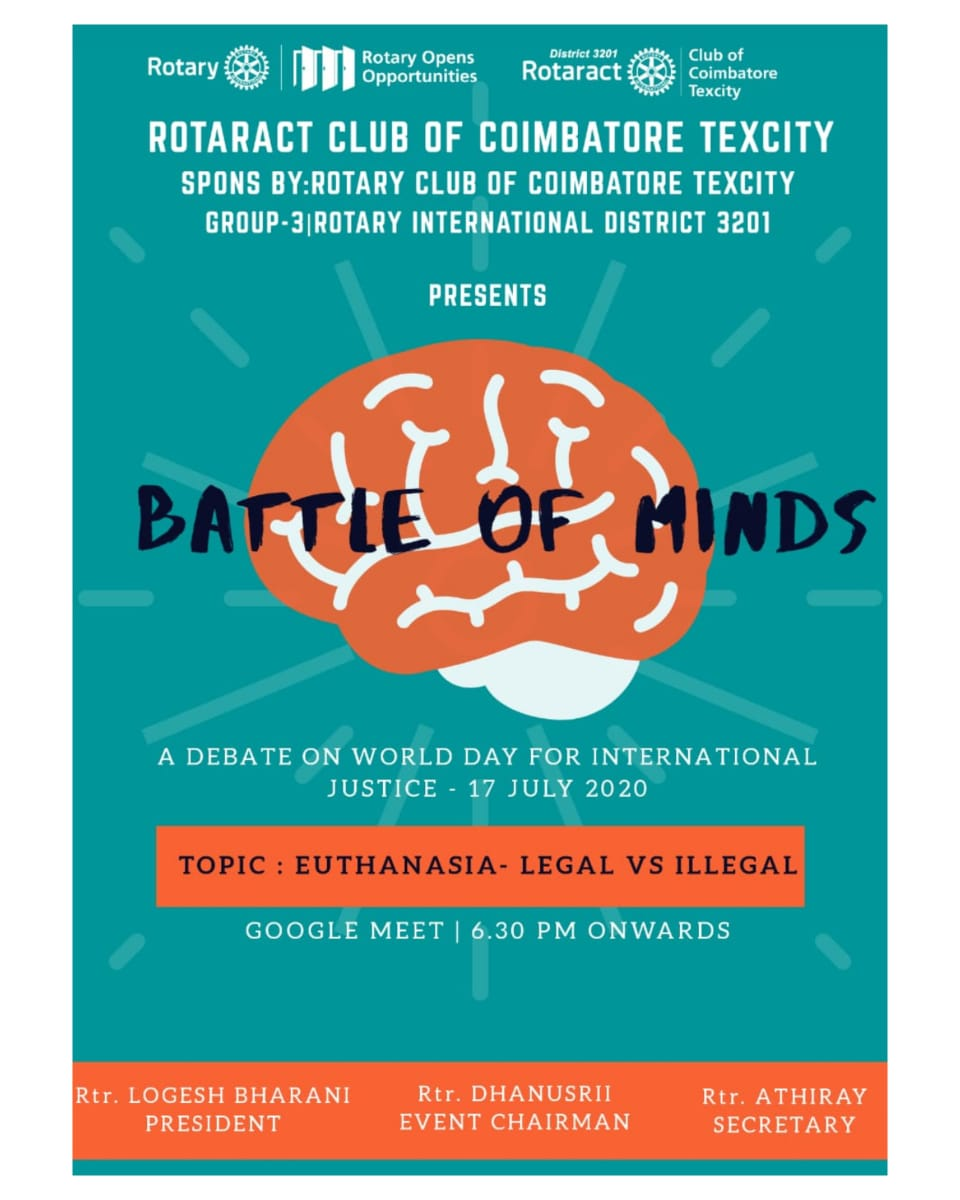
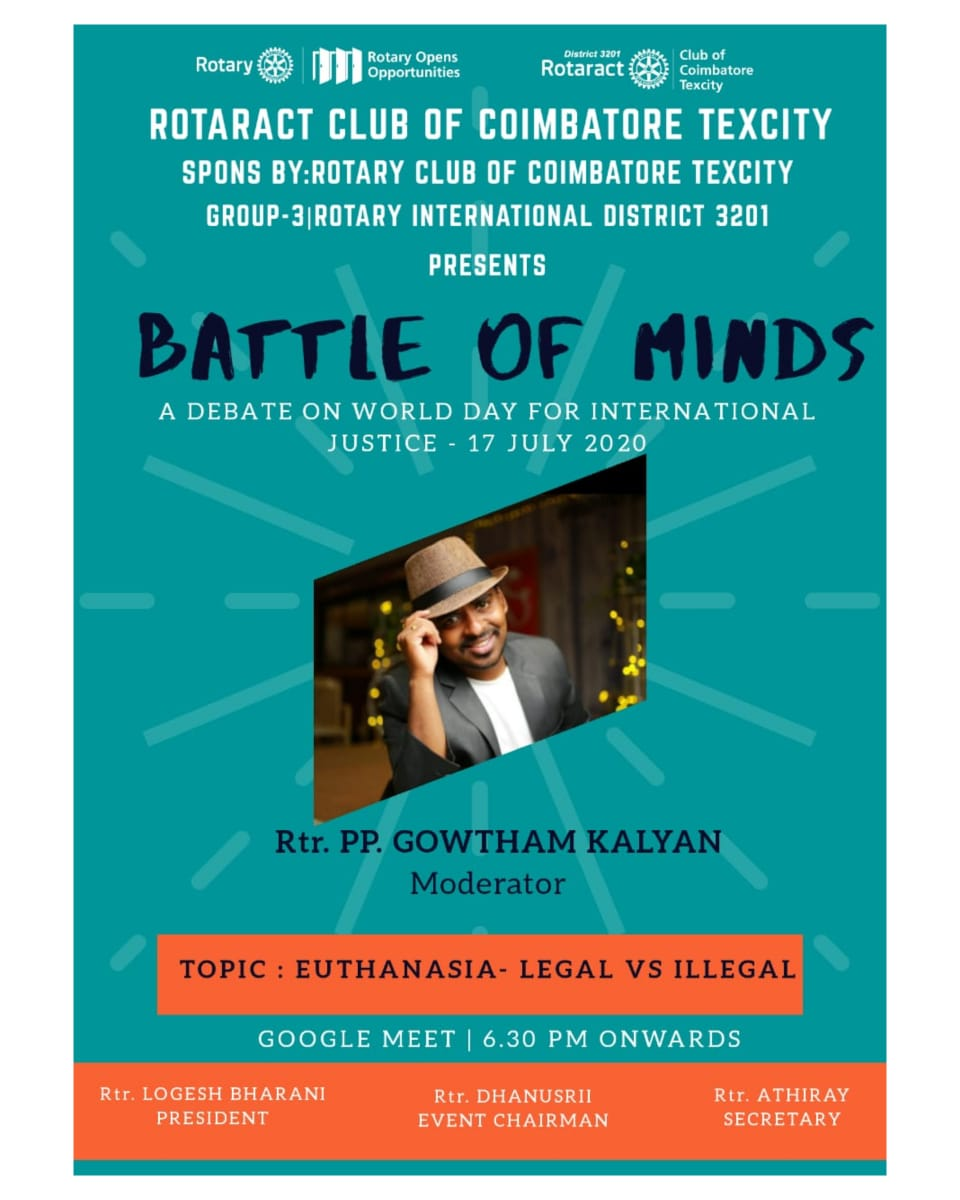
euthanasia

diff --git a/index.html b/index.html
@@ -71,44 +71,6 @@
                 </div>
                 <div class="card-body"> 
 
-
-                    <div class="row row-content">
-                        <div class="col">
-                            <img src="img/edulock.jpeg" width="100%" height="auto">
-                            <br>
-                            <br>
-                            <div class="accordion md-accordion" role="tablist" aria-multiselectable="true" id="accordionind6">
-                                <div class="card">
-                                    <div class="card-header bg-primary" role="tab" id="peterhead">
-                                        <a class="collapsed" data-toggle="collapse" data-parent="#accordionind6" data-target="#pre6" aria-expanded="false"
-                                        aria-controls="pre6">
-                                            <span style="font-size: small; color: white;" class="mb-0">
-                                                More Details    
-                                            </span>
-                                        </a>
-                                    </div>
-                                    <div class="collapse" id="pre6" role="tabpanel" data-parent="#accordionind6">
-                                        <div class="card-body">
-                                            <div class="row row-content">
-                                                <p style="font-size: medium;"> <strong>Education is the passport to the future, for Tomorrow belongs to those who prepare "Today" </strong><br><br>
-
-                                                    We, The Rotaract club of Coimbatore Gaalaxy along with the Rotaract club of Coimbatore Texcity and the Rotaract club of Info Institute of Engineering invite you for a Virtual session  handled by <strong>Dr.S.Balusamy Principal of KPR College of Arts and Science.</strong>
-                                                    <br><br>
-                                                    Topic :<strong>Education in Pandemic and its Future</strong><br>
-                                                    Platform : Zoom<br>
-                                                    Date : 15th July 2020<br>
-                                                    Time: 11:00 AM onwards<br>
-                                                    <br><br>
-                                                    This session is to commemorate the birth Anniversary of the freedom fighter and our Former Chief Minister <strong>Mr.Kumarasami Kamarajar</strong>  who was the Game changer😎 in education in our state. So Dear Rotaractors, Save your date for this productive session. <br><br>
-                                                    </p>
-                                            </div>
-                                        </div>
-                                    </div>
-                                </div>
-                            </div>
-                        </div>
-                    </div>
-
                     <div class="row row-content">
                         <div class="col">
                             <img src="img/voice over race.jpeg" width="100%" height="auto">
@@ -169,14 +131,30 @@
 
                                                     We the Rotaract Club of Coimbatore Texcity have planned to conduct <strong>"Battle of minds"  - a debate on World Day for International Justice - July 17, 2020.</strong>
                                                     <br><br>
-                                                   Topic : <strong>(Mercy killing)</strong><br> 
+                                                   Topic : <strong>Euthanasia(Mercy killing)</strong><br>
+                                                   Moderator : <strong>Rtr. PP. Gowtham Kalyan</strong><br> 
                                                    Legal vs Illegal<br>
                                                    Time : 6.30 pm<br>
                                                    Platform : Google meet<br>
                                                    <br><br>
-                                                   To be a part of this debate, kindly fill this google form and the shortlisted participants will be informed.
-                                                   <br>
-                                                   <a href="https://forms.gle/Jw5fmGamHp7vDfuw8">Click here for the google form</a>
+                                                   We the Rotaract club of Coimbatore Texcity are happy to introduce the Speakers of " Battle of Minds "-A debate on Euthanasia (Mercy Killing -Legal Vs Illegal) <br>
+                                                    <strong>Legal :</strong>
+                                                        Rtr. Nandhitha
+                                                        Rtr. Arunprasath
+                                                        Rtr. Dharshini
+                                                        Rtr. Jagannathan
+                                                        Mr. Bharath
+                                                        Mr. Prakash
+                                                        Rtr. Parvathy Nair
+
+                                                        <strong>Illegal :</strong>
+                                                        Rtr. Shafeeq
+                                                        Rtr. Reshma
+                                                        Ms. Anbumozhi
+                                                        Rtr. Bharathi. K
+                                                        Rtr. Aakash
+                                                        Rtr. Kokilavanidhesingu
+                                                        Rtr. Haritha
                                                    </p>
                                             </div>
                                         </div>
@@ -446,6 +424,44 @@
                             </div>
                         </div>
                     </div>
+
+                    <div class="row row-content">
+                        <div class="col">
+                            <img src="img/edulock.jpeg" width="100%" height="auto">
+                            <br>
+                            <br>
+                            <div class="accordion md-accordion" role="tablist" aria-multiselectable="true" id="accordionindc5">
+                                <div class="card">
+                                    <div class="card-header bg-primary" role="tab" id="peterhead">
+                                        <a class="collapsed" data-toggle="collapse" data-parent="#accordionindc5" data-target="#prec5" aria-expanded="false"
+                                        aria-controls="prec5">
+                                            <span style="font-size: small; color: white;" class="mb-0">
+                                                More Details    
+                                            </span>
+                                        </a>
+                                    </div>
+                                    <div class="collapse" id="prec5" role="tabpanel" data-parent="#accordionindc5">
+                                        <div class="card-body">
+                                            <div class="row row-content">
+                                                <p style="font-size: medium;"> <strong>Education is the passport to the future, for Tomorrow belongs to those who prepare "Today" </strong><br><br>
+
+                                                    We, The Rotaract club of Coimbatore Gaalaxy along with the Rotaract club of Coimbatore Texcity and the Rotaract club of Info Institute of Engineering invite you for a Virtual session  handled by <strong>Dr.S.Balusamy Principal of KPR College of Arts and Science.</strong>
+                                                    <br><br>
+                                                    Topic :<strong>Education in Pandemic and its Future</strong><br>
+                                                    Platform : Zoom<br>
+                                                    Date : 15th July 2020<br>
+                                                    Time: 11:00 AM onwards<br>
+                                                    <br><br>
+                                                    This session is to commemorate the birth Anniversary of the freedom fighter and our Former Chief Minister <strong>Mr.Kumarasami Kamarajar</strong>  who was the Game changer😎 in education in our state. So Dear Rotaractors, Save your date for this productive session. <br><br>
+                                                    </p>
+                                            </div>
+                                        </div>
+                                    </div>
+                                </div>
+                            </div>
+                        </div>
+                    </div>
+
                 </div>
             </div>
         </div>

diff --git a/bulletin.html b/bulletin.html
@@ -72,7 +72,7 @@
             </div>
         </div>
         <div class="row row-content">
-            <p style="text-align: center;">You can download the Tex Tale - Edition 1 from this link <a href="./bulletin/Tex-Tale 01.pdf" download>Click here</a></p>
+            <p style="text-align: center;">You can download the Tex Tale - Special Edition from this link <a href="./bulletin/Tex-Tale 01.pdf" download>Click here</a></p>
         </div>
         <div class="row row-content col-12 col-sm-8 offset-sm-2">
             <div class="col-12 col-sm-5 m-1">
@@ -150,7 +150,7 @@
                                     <div class="collapse" id="prec2" role="tabpanel" data-parent="#accordionindc2">
                                         <div class="card-body">
                                             <div class="row row-content">
-                                                <p style="font-size: medium;">We the <strong>Rotaract Club of Coimbatore Texcity</strong> have conducted our our Board members training - <strong>"Light Em Up"</strong><br><br> 
+                                                <p style="font-size: medium;">We the <strong>Rotaract Club of Coimbatore Texcity</strong> have conducted our Board members training - <strong>"Light Em Up"</strong><br><br> 
                                                     This will be handled by <strong>Rtr. PP. Abhijeet Venkatraman Balaji</strong> - Certified District Trainer. <br><br>
                                                     Date : 11 July 2020<br>
                                                     Timing : 11.00 AM<br>
